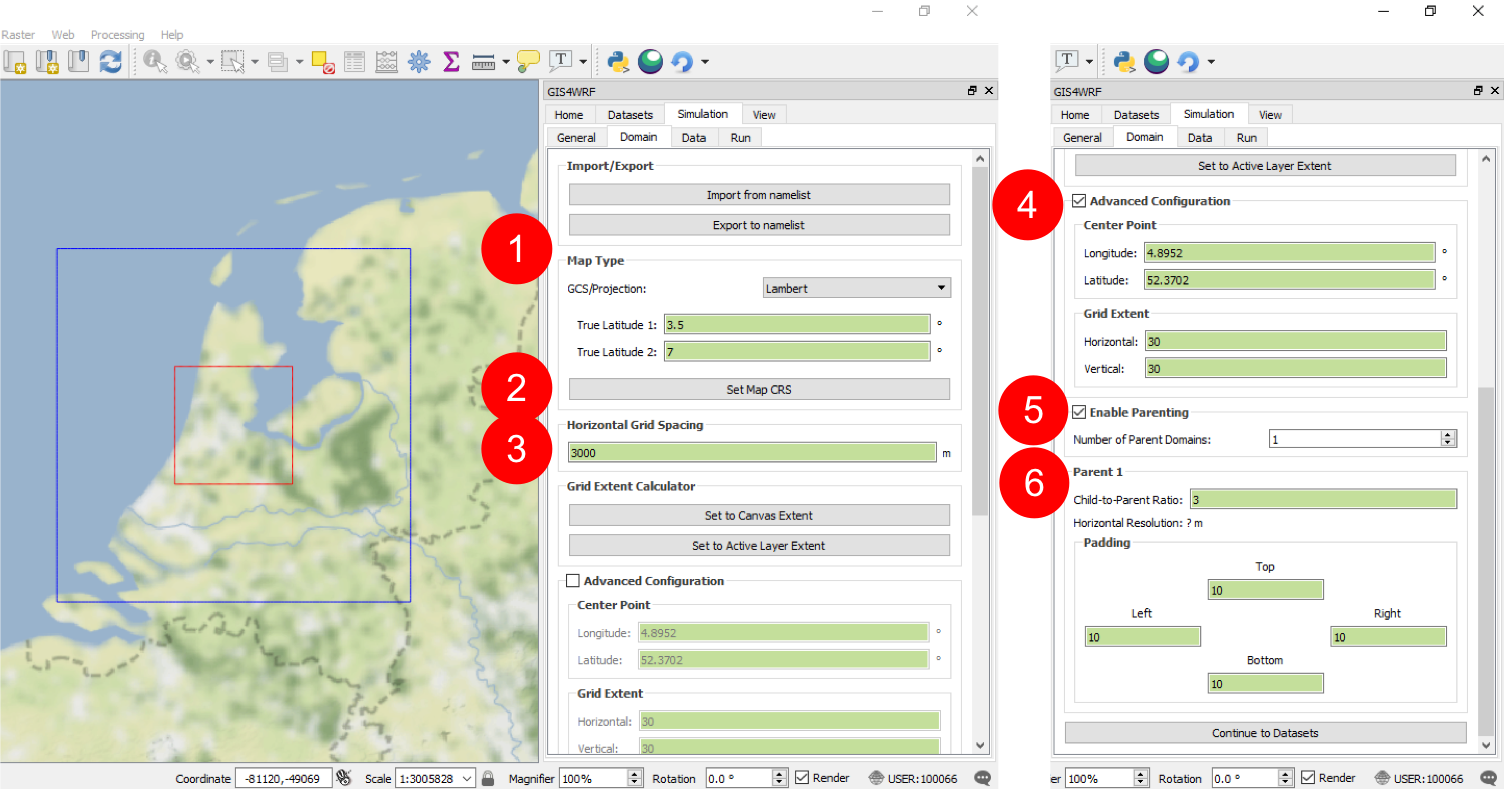
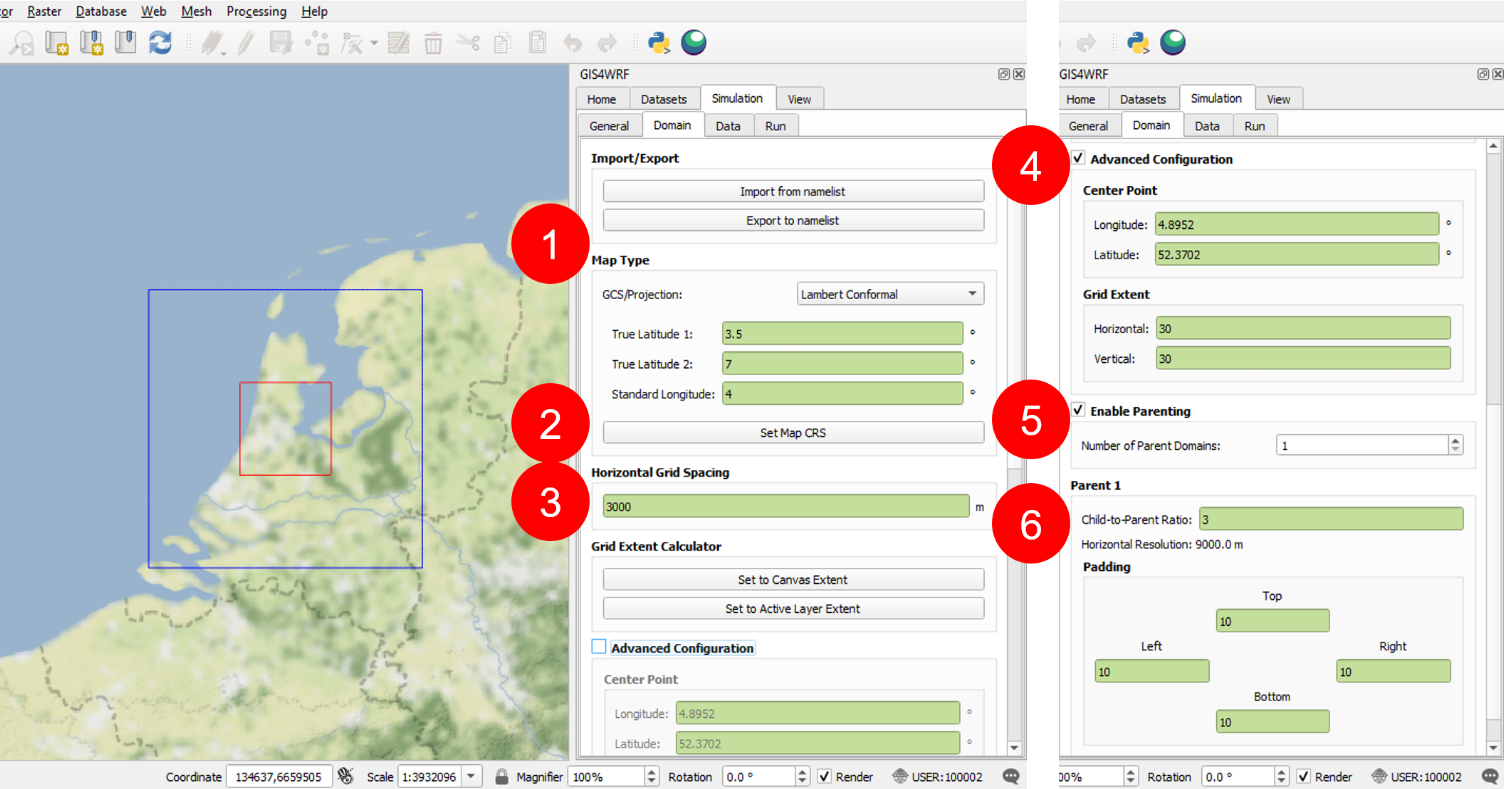
update docs and tutorial to reflect proj change as in GIS4WRF/gis4wrf#117

diff --git a/docs/documentation/index.md b/docs/documentation/index.md
@@ -130,7 +130,7 @@ Used to easily create, import, and export WRF domains through a GUI interface. T
 
 - Map Type
 
-`GCS/Projection` dropdown: allows users to define the type Geographical Coordinate System (GCS) or Projection to use for creating the domain. Current supported GCS/Projections are `Latitude/Longitude` and `Lambert`. If Lambert option is selected, the two true latitudes (`True Latitude 1` and `True Latitude 2`) are required.
+`GCS/Projection` dropdown: allows users to define the type Geographical Coordinate System (GCS) or Projection to use for creating the domain. Current supported GCS/Projections are `Latitude/Longitude`,  `Lambert Conformal`, `Mercator`, `Polar Stereographic`. If `Lambert Conformal` is selected, the two true latitudes (`True Latitude 1` and `True Latitude 2`) and the `Standard Longitude` values are required. If `Polar Stereographic` is selected, the `True Latitude 1` and the `Standard Longitude` values are required.
 
 `Set Map CRS` button: set QGIS Project Coordinate Reference System (CRS) based on selected `GCS/Projection`
 

diff --git a/docs/tutorials/index.md b/docs/tutorials/index.md
@@ -38,9 +38,10 @@ From QGIS launch GIS4WRF from the `Plugins` > `GIS4WRF` menu. Create a new GIS4W
 ## Define domain
 Navigate to `Simulation` > `Domain` and fill the sections as follows:
 
-- GCS/Projection: `Lambert`
+- GCS/Projection: `Lambert Conformal`
 - True Latitude 1: `3.5`
 - True Latitude 2: `7`
+- Standard Longitude: `4`
 
 Click on `Set Map CRS`
 
